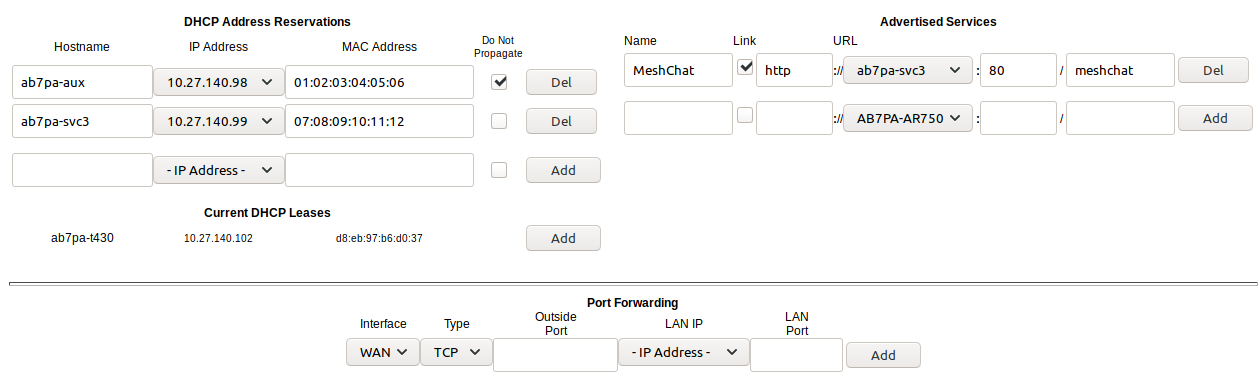
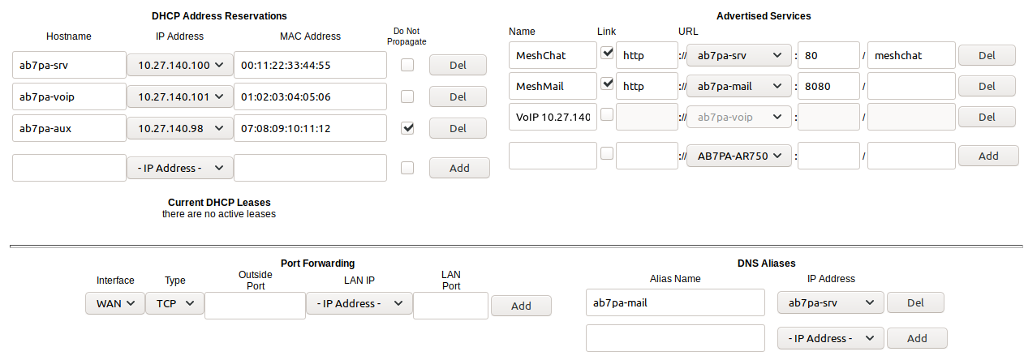
Add DNS Aliases Section
Add the explanation for DNS Aliases to the Advanced Configuration 
section.

diff --git a/arednGettingStarted/advanced_config.rst b/arednGettingStarted/advanced_config.rst
@@ -136,7 +136,7 @@ If your node is running its default DHCP server on the LAN network, it will auto
 
 .. attention:: The hostnames of computers connected to the mesh at large must be unique. Typically you should prefix your amateur radio callsign to the computer's hostname in order to have the best chance of it being unique on the mesh network.
 
-Since DHCP leases are dynamic and can change over time, there may be a reason why a host's assigned IP address should be made permanent. This is especially useful if that host will provide an application, program, or service through your node to the mesh network at large. You can permanently reserve that host's DHCP address by clicking the *Add* button to the right of the host in the *DHCP Leases* list. You will see that host now appears in the list under the **DHCP Address Reservations** heading above the list of leases.
+Since DHCP leases are dynamic and can change over time, there may be a reason why a host's assigned IP address should be made permanent. This is especially useful if that host will provide an application, program, or service through your node to the mesh network at large. You can permanently reserve that host's DHCP address by clicking the *Add* button at the right of the row in the *DHCP Leases* list. You will see that host now appears in the list under the **DHCP Address Reservations** heading above the list of leases.
 
 There may be some devices on which you are not able to set the hostname prefixed by your callsign. Once you add that device to your **DHCP Address Reservations**, however, click the *Hostname* box to edit the hostname what will be propagated across the mesh network. You may also want to assign a specific IP Address to the device by selecting it from the drop-down list. If you have a device which needs to be reachable on its host node, but which should not be accessed across the mesh network, click the *Do Not Propagate* checkbox to prevent OLSR from propagating that information to the mesh.
 
@@ -162,14 +162,25 @@ URL
 Port
   Enter the network port on which the service is listening for user connections. There may be several applications provided through a single web server on a node or host using a single port, and in that case a valid application *Path* must be entered after the port number (as in the example above). In other cases the network port alone uniquely identifies the application or program that is listening for user connections to that service. You can click this link for additional information about `network ports <https://en.wikipedia.org/wiki/Port_(computer_networking)>`_.
 
-Once you have entered the values for your advertised service, click *Add* to add the service to the **Advertised Services** list. You may also remove an existing advertised service by clicking the *Del* button to delete it from the list.
+Once you have entered the values for your advertised service, click *Add* to add the service to the **Advertised Services** list. You may also remove an existing advertised service by clicking the *Del* button to delete it from the list. Click the **Save Changes** button to write your changes to the node's configuration.
 
 Port Forwarding
 ^^^^^^^^^^^^^^^
 
-If you are using ``NAT`` for your LAN mode, then *Port Forwarding* rules are the only way other devices have for connecting to your services. To create a port forwarding rule, select the network interface on which the traffic will enter your node. Select the protocol used by the incoming packets (TCP, UDP, or Both). Enter the port number that the external request is using to connect to your service. When your node receives traffic on the selected interface, protocol, and port, the request will be routed to the LAN IP address and port on which that host is listening for incoming service requests.
+If you are using ``NAT`` for your LAN mode, then *Port Forwarding* rules are the only way other devices have for connecting to your services. To create a port forwarding rule, select the network **Interface** on which the traffic will enter your node. Select the Protocol **Type** used by the incoming packets (TCP, UDP, or Both). Enter the **Port** number that the external request is using to connect to your service. When your node receives traffic on the selected interface, protocol, and port, that request will be routed to the **LAN IP** address and **LAN Port** on which the service host is listening for incoming requests.
+
+Once you have entered these values, click *Add* to add the rule to the **Port Forwarding** list. You may also remove an existing rule by clicking the *Del* button to delete it from the list. Click the **Save Changes** button to write your port forwarding changes to the node's configuration.
 
 See your node's **Help** file for additional insights on how this configuration section changes based on the LAN mode of your node. Click this link for more information on `Port Forwarding <https://en.wikipedia.org/wiki/Port_forwarding>`_.
+
+DNS Aliases
+^^^^^^^^^^^
+
+**DNS Aliases** provide a way for you to create a mesh alias or synonym for a services computer. This can be useful if you want a computer on your node's LAN network to be reachable across the mesh by something other than its actual hostname. It provides functionality similar to DNS *CNAME* records, so the computer will respond to requests using its real hostname as well as any aliases that are defined for it.
+
+To create an alias, enter an **Alias Name**. The alias should be prefixed with your callsign in order to follow the naming convention used when defining any unique host on the mesh network. Then use the drop-down selector to choose the name or **IP Address** of the existing host for which you are defining the alias. Once you have entered these values, click *Add* to add the alias to the **DNS Aliases** list. You may also remove an existing alias by clicking the *Del* button to delete it from the list. Click the **Save Changes** button to write your changes to the node's configuration.
+
+Once they are defined the **DNS Aliases** become available for creating *Advertised Services* by choosing the alias from the host drop-down selector. This feature can be used for virtual domain email servers, virtual machine identifiers, virtual web site URLs, and many other services.
 
 Tunnel Server
 -------------
